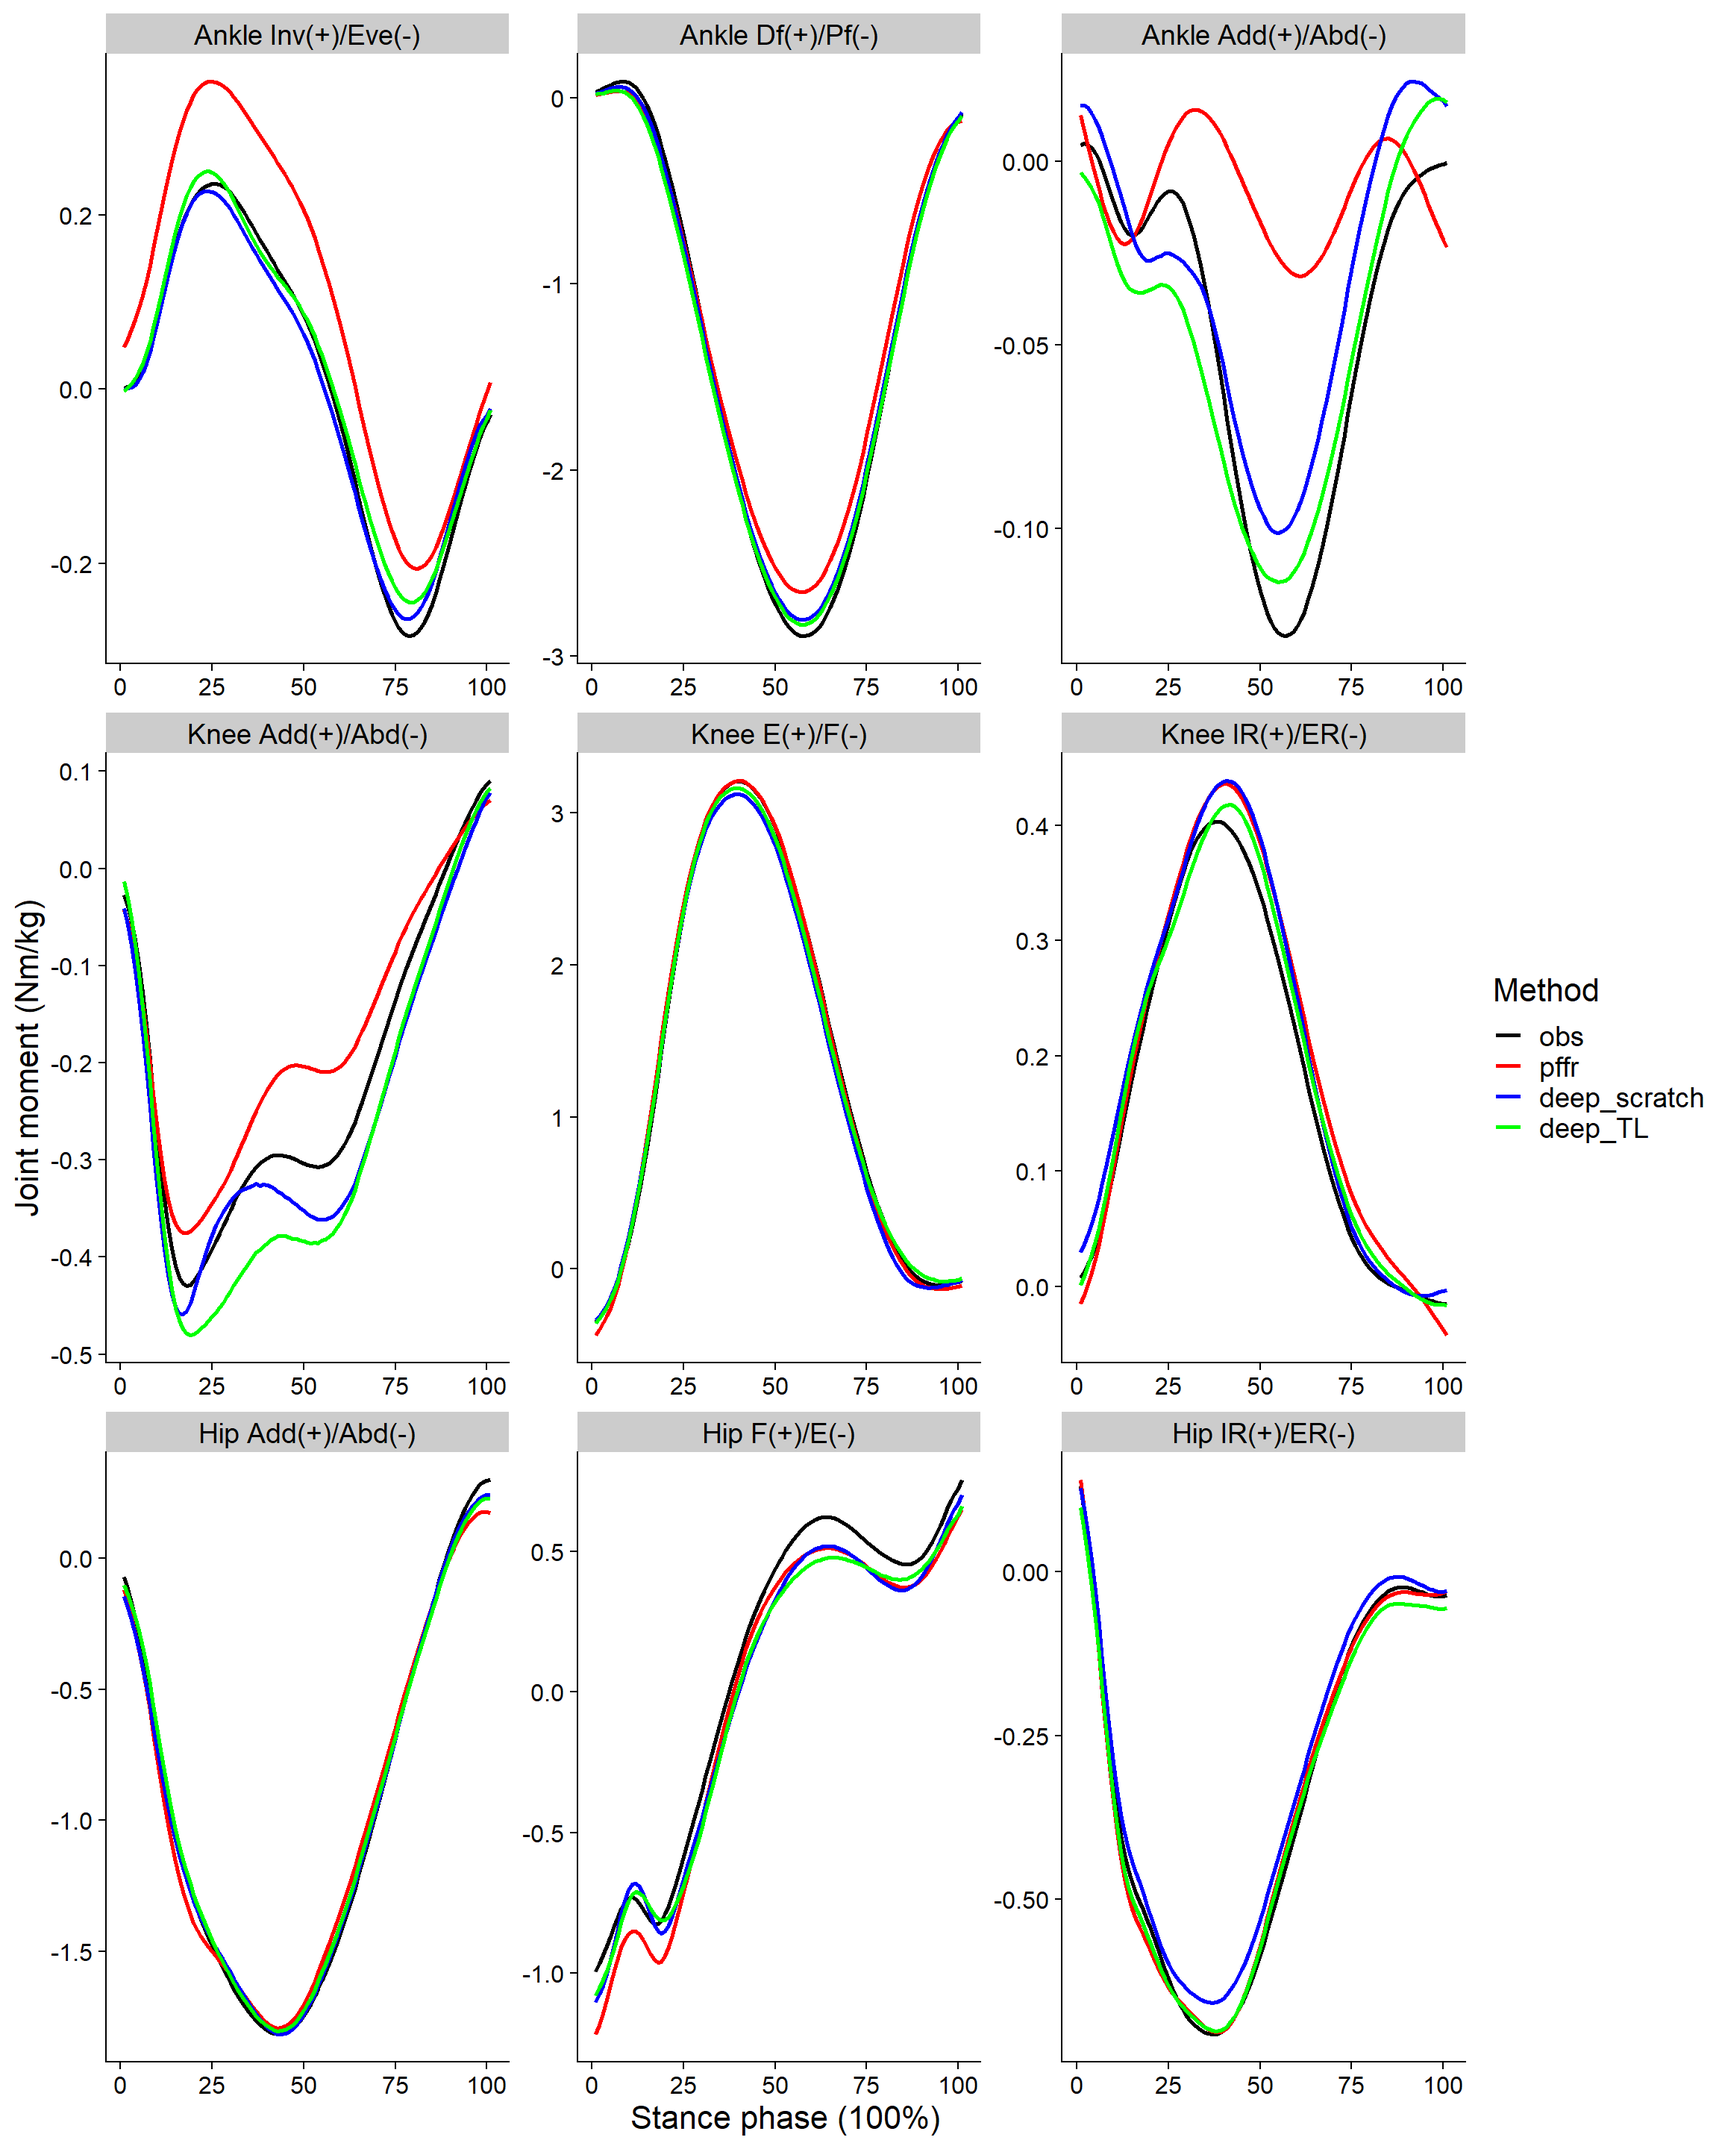
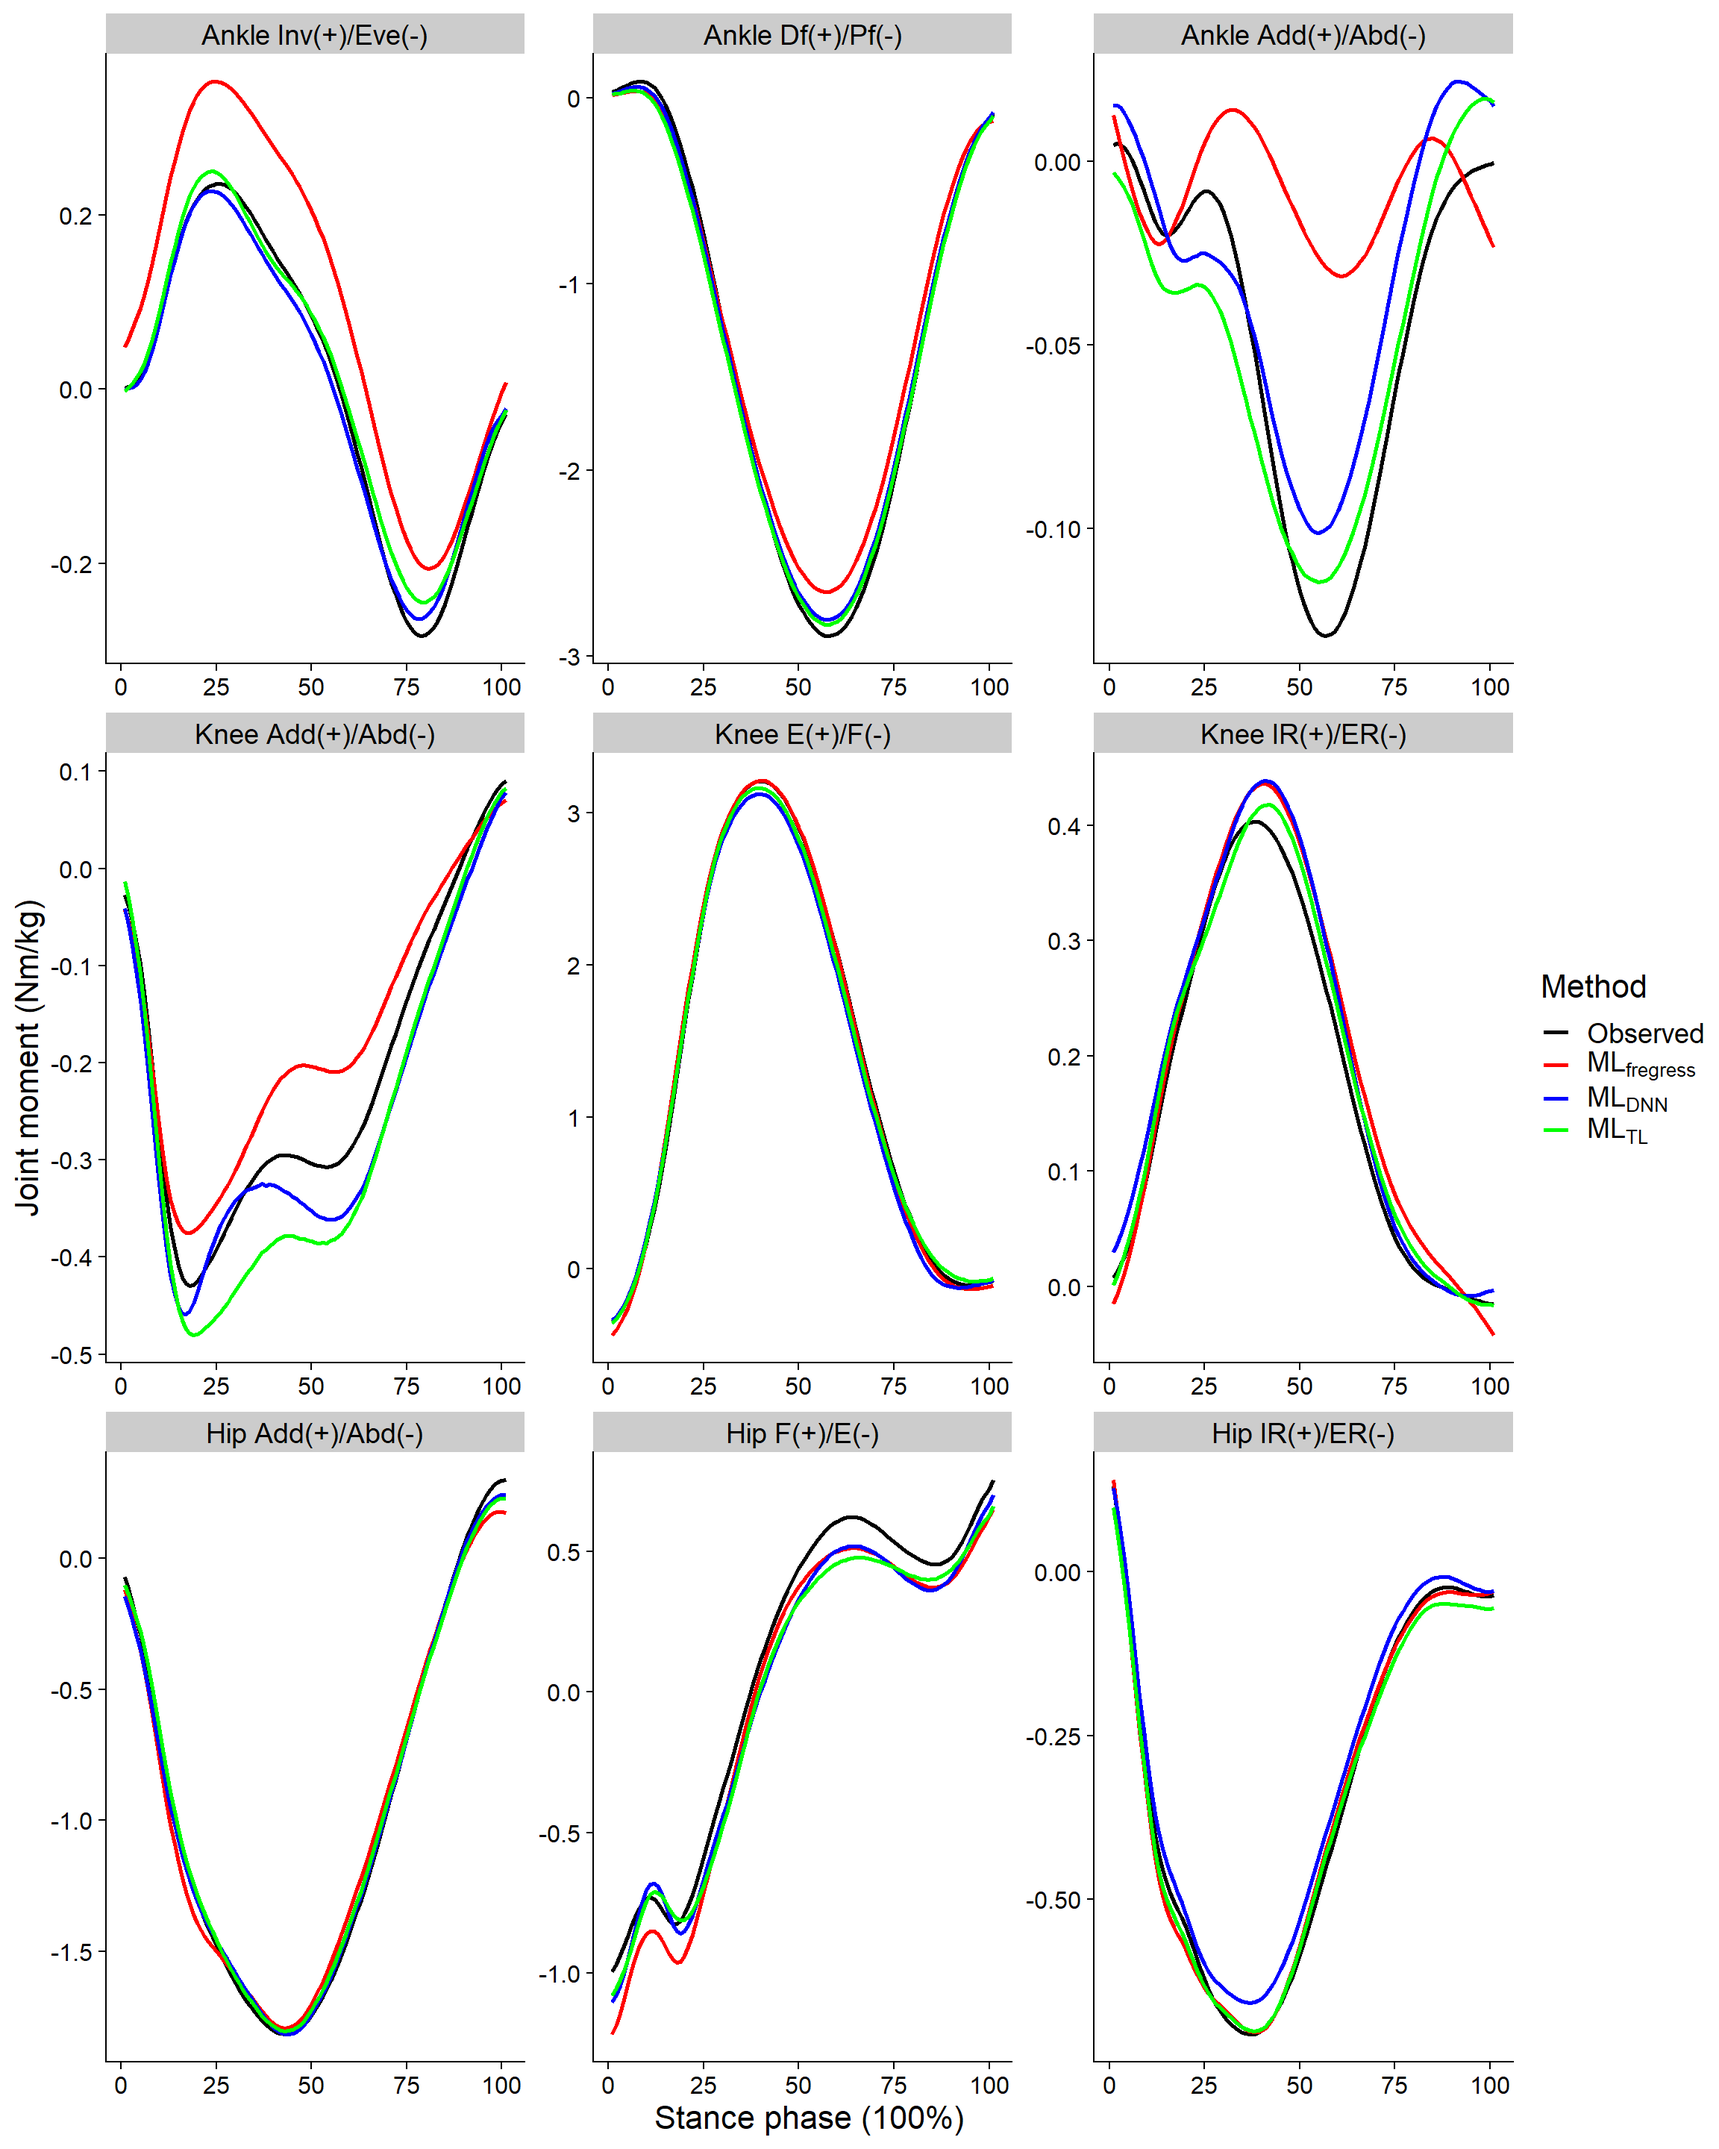
Build site.

diff --git a/docs/code_for_publish.html b/docs/code_for_publish.html
@@ -420,7 +420,7 @@ div.tocify {
 <div class="tab-content">
 <div id="summary" class="tab-pane fade in active">
 <p>
-<strong>Last updated:</strong> 2021-06-03
+<strong>Last updated:</strong> 2021-06-07
 </p>
 <p>
 <strong>Checks:</strong> <span class="glyphicon glyphicon-ok text-success" aria-hidden="true"></span> 7 <span class="glyphicon glyphicon-exclamation-sign text-danger" aria-hidden="true"></span> 0
@@ -511,16 +511,16 @@ This reproducible <a href="http://rmarkdown.rstudio.com">R Markdown</a> analysis
 <div class="panel panel-default">
 <div class="panel-heading">
 <p class="panel-title">
-<a data-toggle="collapse" data-parent="#workflowr-checks" href="#strongRepositoryversionstrongahrefhttpsgithubcombernardliew2020funregresstree888960784d1cf536b043c23b11660b5599b120d1targetblank8889607a"> <span class="glyphicon glyphicon-ok text-success" aria-hidden="true"></span> <strong>Repository version:</strong> <a href="https://github.com/bernard-liew/2020_fun_regress/tree/888960784d1cf536b043c23b11660b5599b120d1" target="_blank">8889607</a> </a>
+<a data-toggle="collapse" data-parent="#workflowr-checks" href="#strongRepositoryversionstrongahrefhttpsgithubcombernardliew2020funregresstreec83d577871b2f29d992cd8c605b4cf1bb27d0024targetblankc83d577a"> <span class="glyphicon glyphicon-ok text-success" aria-hidden="true"></span> <strong>Repository version:</strong> <a href="https://github.com/bernard-liew/2020_fun_regress/tree/c83d577871b2f29d992cd8c605b4cf1bb27d0024" target="_blank">c83d577</a> </a>
 </p>
 </div>
[2 lines of base64/hex data omitted]
 <div class="panel-body">
 <p>
 Great! You are using Git for version control. Tracking code development and connecting the code version to the results is critical for reproducibility.
 </p>
 <p>
-The results in this page were generated with repository version <a href="https://github.com/bernard-liew/2020_fun_regress/tree/888960784d1cf536b043c23b11660b5599b120d1" target="_blank">8889607</a>. See the <em>Past versions</em> tab to see a history of the changes made to the R Markdown and HTML files.
+The results in this page were generated with repository version <a href="https://github.com/bernard-liew/2020_fun_regress/tree/c83d577871b2f29d992cd8c605b4cf1bb27d0024" target="_blank">c83d577</a>. See the <em>Past versions</em> tab to see a history of the changes made to the R Markdown and HTML files.
 </p>
 <p>
 Note that you need to be careful to ensure that all relevant files for the analysis have been committed to Git prior to generating the results (you can use <code>wflow_publish</code> or <code>wflow_git_commit</code>). workflowr only checks the R Markdown file, but you know if there are other scripts or data files that it depends on. Below is the status of the Git repository when the results were generated:
@@ -867,6 +867,40 @@ Message
 </tr>
 </thead>
 <tbody>
+<tr>
+<td>
+Rmd
+</td>
+<td>
+<a href="https://github.com/bernard-liew/2020_fun_regress/blob/c83d577871b2f29d992cd8c605b4cf1bb27d0024/analysis/code_for_publish.Rmd" target="_blank">c83d577</a>
+</td>
+<td>
+Bernard
+</td>
+<td>
+2021-06-07
+</td>
+<td>
+Updated index
+</td>
+</tr>
+<tr>
+<td>
+html
+</td>
+<td>
+<a href="https://rawcdn.githack.com/bernard-liew/2020_fun_regress/ef60ae91a4cc13e5b2fc9dea7dba4581606deda8/docs/code_for_publish.html" target="_blank">ef60ae9</a>
+</td>
+<td>
+Bernard
+</td>
+<td>
+2021-06-03
+</td>
+<td>
+Build site.
+</td>
+</tr>
 <tr>
 <td>
 Rmd
@@ -1921,8 +1955,9 @@ p &lt;- ggplot (df.plot) +
   geom_line(aes(x = cycle, y = Mean, colour = Method), size = 1) +
    #geom_ribbon(aes(x = cycle, ymin = Mean - Sd, ymax = Mean + Sd, fill = method), alpha = 0.1) +
   facet_wrap(~ var, scales = &quot;free&quot;, ncol = 3) +
-  scale_color_manual(values = c(&quot;black&quot;, &quot;red&quot;, &quot;blue&quot;, &quot;green&quot;)) +
-  scale_fill_manual(values = c(&quot;black&quot;, &quot;red&quot;, &quot;blue&quot;, &quot;green&quot;)) +
+  scale_color_manual(values = c(&quot;black&quot;, &quot;red&quot;, &quot;blue&quot;, &quot;green&quot;), 
+                     label = c(&quot;Observed&quot;, bquote(ML[fregress]), bquote(ML[DNN]), bquote(ML[TL]))) +
+  #scale_fill_manual(values = c(&quot;black&quot;, &quot;red&quot;, &quot;blue&quot;, &quot;green&quot;)) +
   guides(fill = &quot;none&quot;) +
   ylab (&quot;Joint moment (Nm/kg)&quot;) +
   xlab (&quot;Stance phase (100%)&quot;) +

diff --git a/docs/index.html b/docs/index.html
@@ -338,7 +338,7 @@ $(document).ready(function () {
 <div class="tab-content">
 <div id="summary" class="tab-pane fade in active">
 <p>
-<strong>Last updated:</strong> 2021-06-03
+<strong>Last updated:</strong> 2021-06-07
 </p>
 <p>
 <strong>Checks:</strong> <span class="glyphicon glyphicon-ok text-success" aria-hidden="true"></span> 2 <span class="glyphicon glyphicon-exclamation-sign text-danger" aria-hidden="true"></span> 0
@@ -369,16 +369,16 @@ This reproducible <a href="http://rmarkdown.rstudio.com">R Markdown</a> analysis
 <div class="panel panel-default">
 <div class="panel-heading">
 <p class="panel-title">
-<a data-toggle="collapse" data-parent="#workflowr-checks" href="#strongRepositoryversionstrongahrefhttpsgithubcombernardliew2020funregresstree888960784d1cf536b043c23b11660b5599b120d1targetblank8889607a"> <span class="glyphicon glyphicon-ok text-success" aria-hidden="true"></span> <strong>Repository version:</strong> <a href="https://github.com/bernard-liew/2020_fun_regress/tree/888960784d1cf536b043c23b11660b5599b120d1" target="_blank">8889607</a> </a>
+<a data-toggle="collapse" data-parent="#workflowr-checks" href="#strongRepositoryversionstrongahrefhttpsgithubcombernardliew2020funregresstreec83d577871b2f29d992cd8c605b4cf1bb27d0024targetblankc83d577a"> <span class="glyphicon glyphicon-ok text-success" aria-hidden="true"></span> <strong>Repository version:</strong> <a href="https://github.com/bernard-liew/2020_fun_regress/tree/c83d577871b2f29d992cd8c605b4cf1bb27d0024" target="_blank">c83d577</a> </a>
 </p>
 </div>
[2 lines of base64/hex data omitted]
 <div class="panel-body">
 <p>
 Great! You are using Git for version control. Tracking code development and connecting the code version to the results is critical for reproducibility.
 </p>
 <p>
-The results in this page were generated with repository version <a href="https://github.com/bernard-liew/2020_fun_regress/tree/888960784d1cf536b043c23b11660b5599b120d1" target="_blank">8889607</a>. See the <em>Past versions</em> tab to see a history of the changes made to the R Markdown and HTML files.
+The results in this page were generated with repository version <a href="https://github.com/bernard-liew/2020_fun_regress/tree/c83d577871b2f29d992cd8c605b4cf1bb27d0024" target="_blank">c83d577</a>. See the <em>Past versions</em> tab to see a history of the changes made to the R Markdown and HTML files.
 </p>
 <p>
 Note that you need to be careful to ensure that all relevant files for the analysis have been committed to Git prior to generating the results (you can use <code>wflow_publish</code> or <code>wflow_git_commit</code>). workflowr only checks the R Markdown file, but you know if there are other scripts or data files that it depends on. Below is the status of the Git repository when the results were generated:
@@ -730,6 +730,40 @@ Message
 Rmd
 </td>
 <td>
+<a href="https://github.com/bernard-liew/2020_fun_regress/blob/c83d577871b2f29d992cd8c605b4cf1bb27d0024/analysis/index.Rmd" target="_blank">c83d577</a>
+</td>
+<td>
+Bernard
+</td>
+<td>
+2021-06-07
+</td>
+<td>
+Updated index
+</td>
+</tr>
+<tr>
+<td>
+html
+</td>
+<td>
+<a href="https://rawcdn.githack.com/bernard-liew/2020_fun_regress/ef60ae91a4cc13e5b2fc9dea7dba4581606deda8/docs/index.html" target="_blank">ef60ae9</a>
+</td>
+<td>
+Bernard
+</td>
+<td>
+2021-06-03
+</td>
+<td>
+Build site.
+</td>
+</tr>
+<tr>
+<td>
+Rmd
+</td>
+<td>
 <a href="https://github.com/bernard-liew/2020_fun_regress/blob/86b93fa3cc935fc3c945c719d7a76240694998c7/analysis/index.Rmd" target="_blank">86b93fa</a>
 </td>
 <td>
@@ -784,7 +818,7 @@ initial commit
 </div>
 </div>
 <p>Welcome to my research website.</p>
-<p><a href="code_for_publish.html">This code performs BN analysis</a></p>
+<p><a href="code_for_publish.html">This code performs the ML techniques</a></p>
 
 
 <!-- Adjust MathJax settings so that all math formulae are shown using
